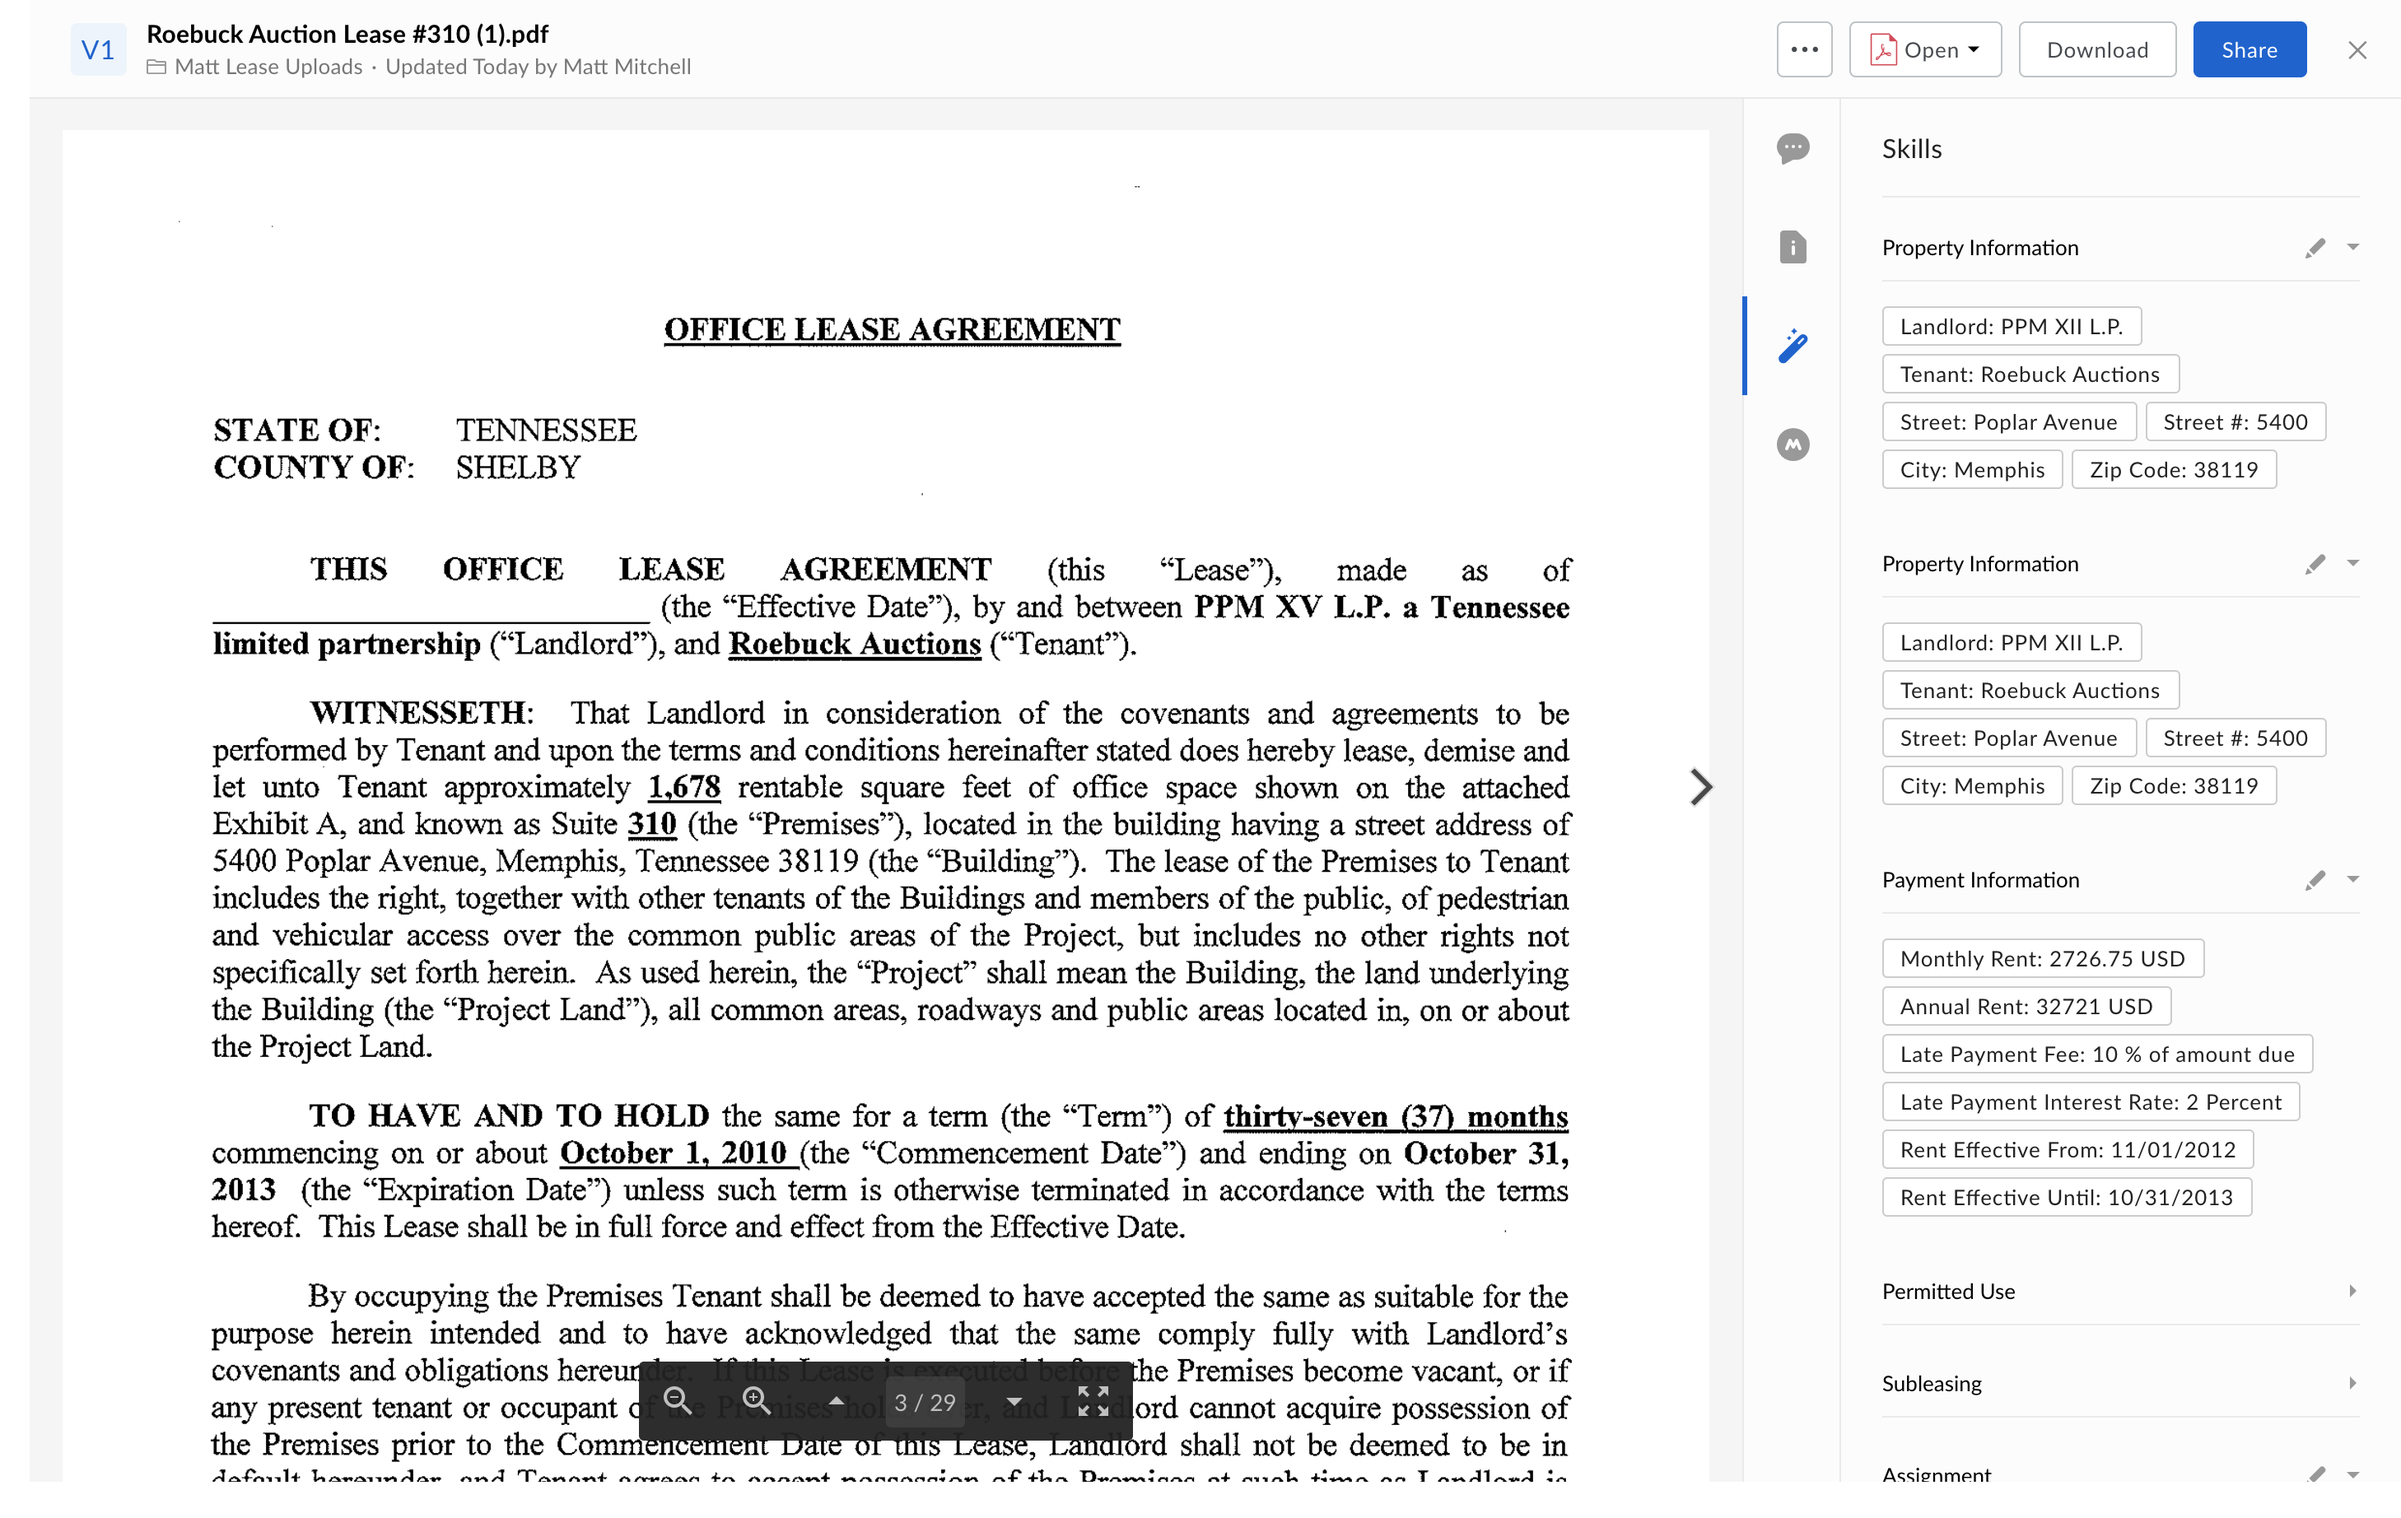
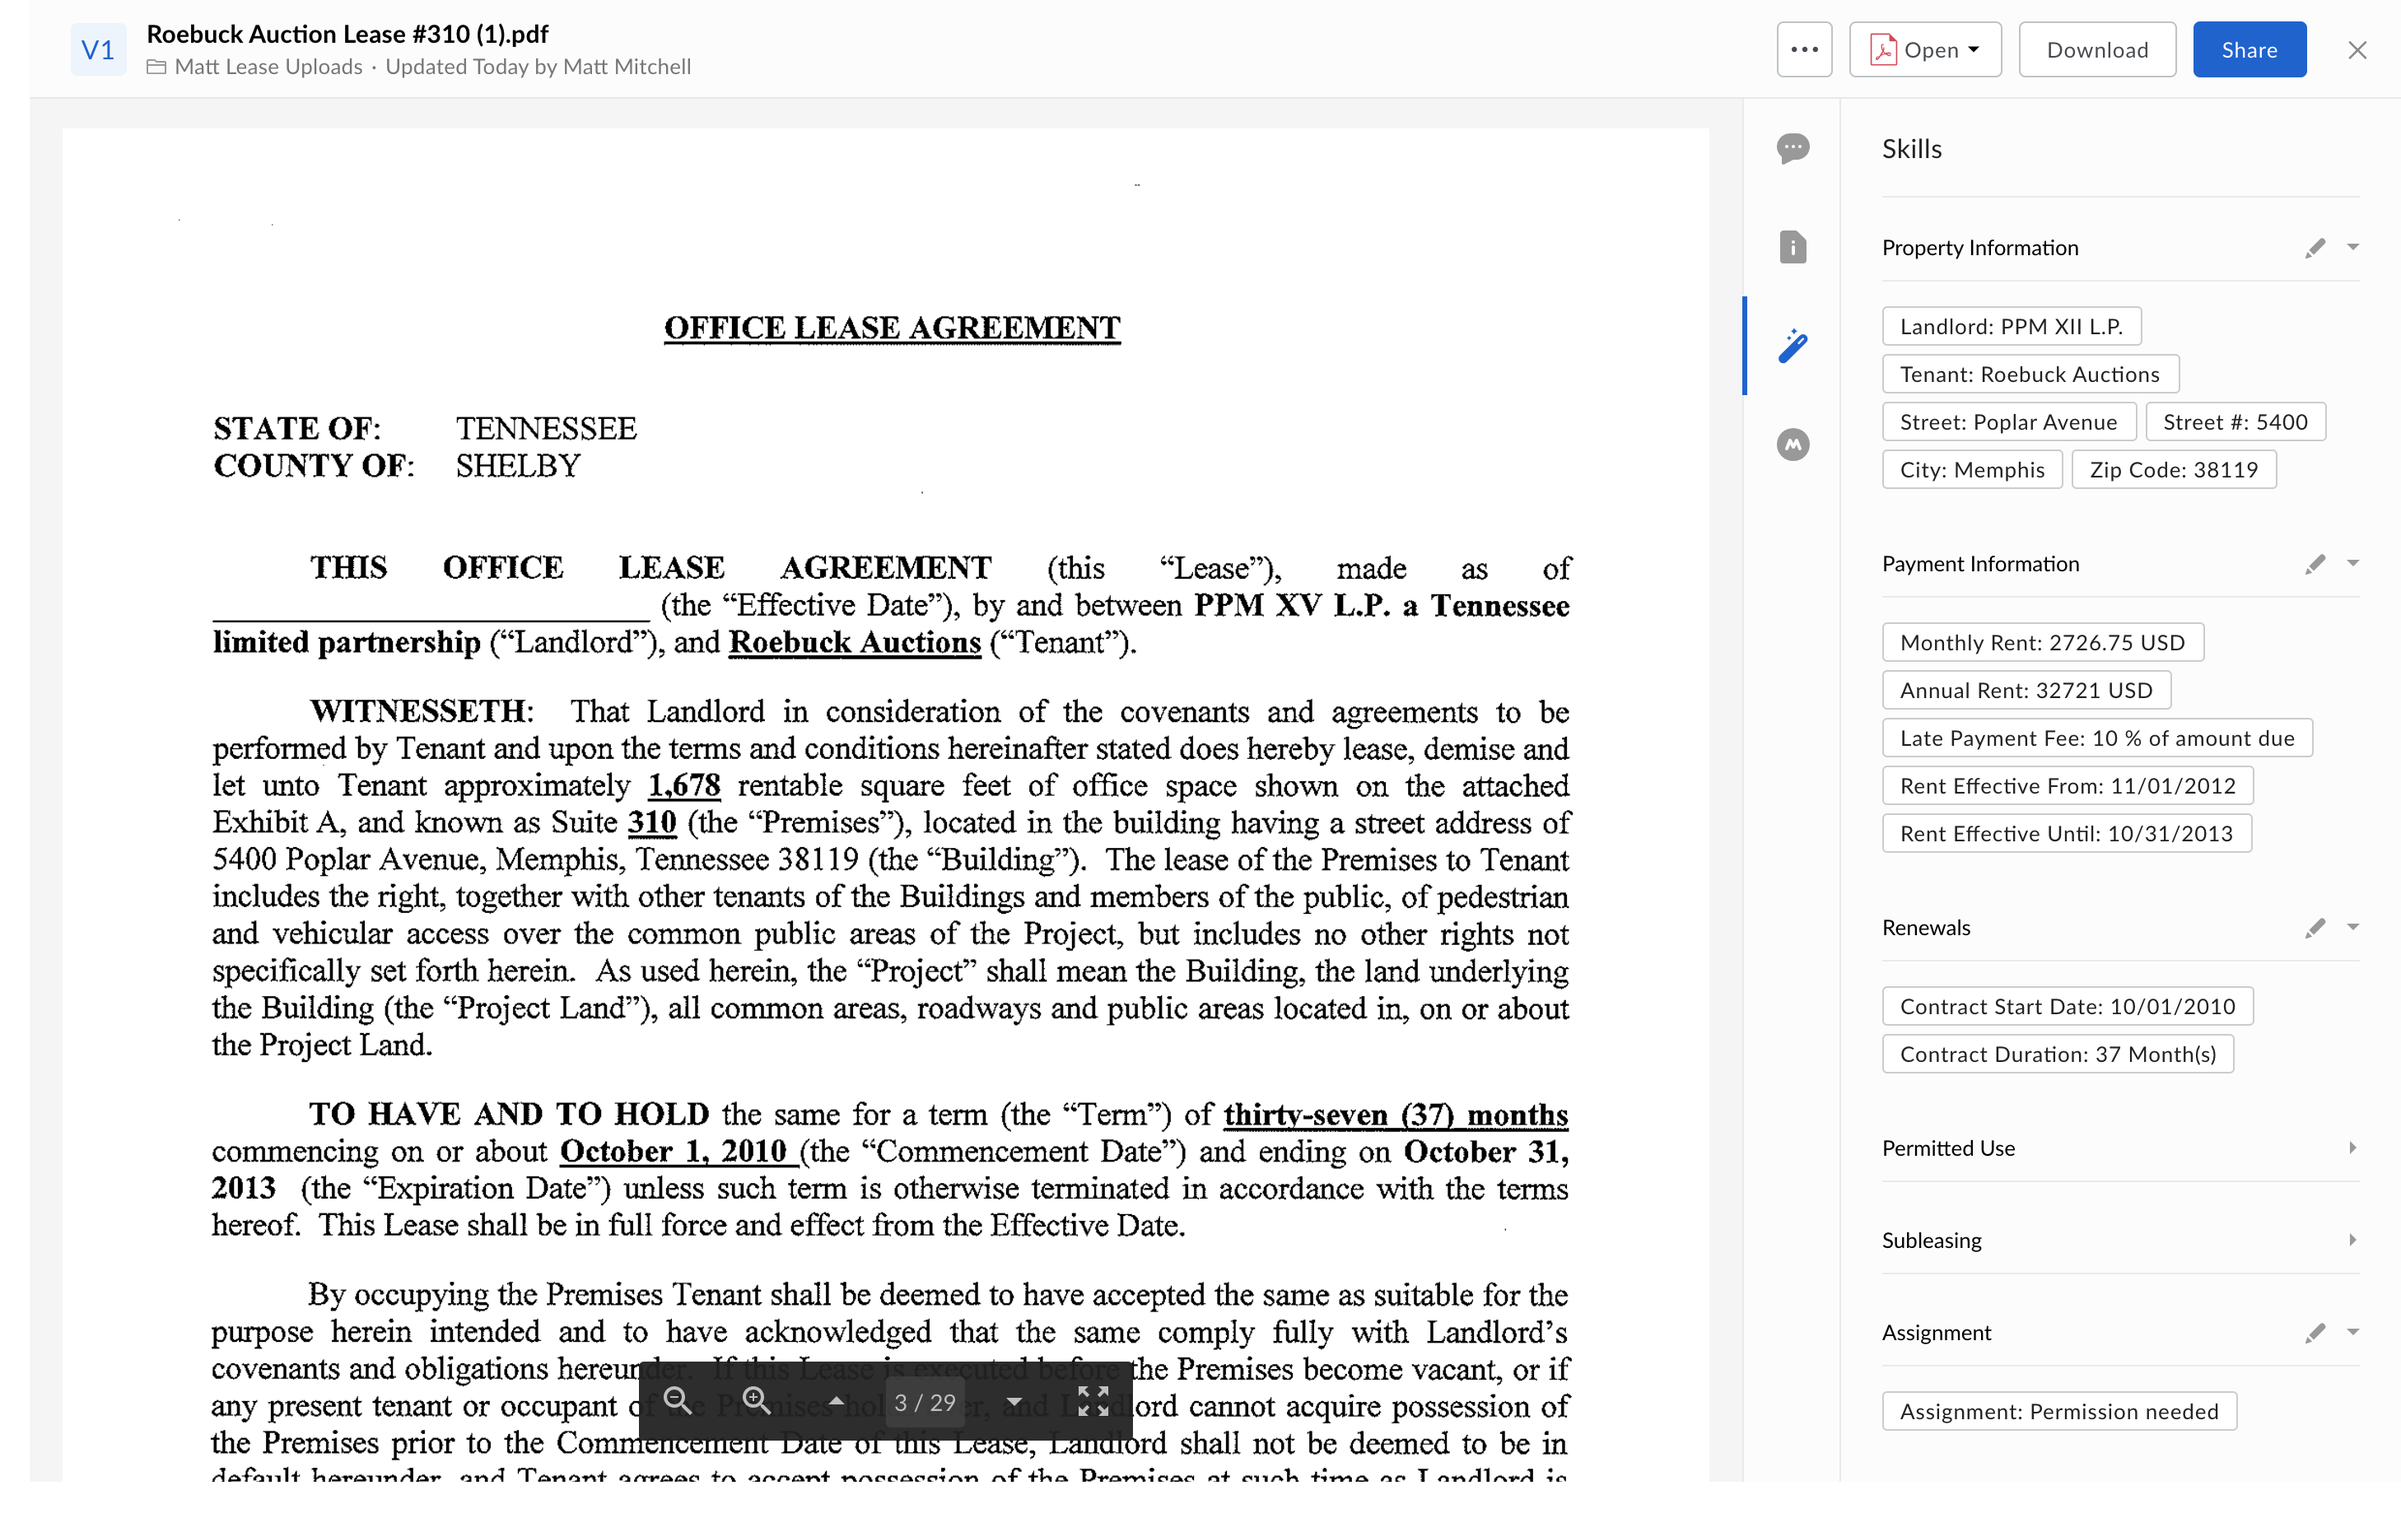
removed duplicate cards

diff --git a/leverton-lease-extraction/index.js b/leverton-lease-extraction/index.js
@@ -39,7 +39,7 @@ async function processSkill(event, context) {
     await skillsWriter.saveDataCards(cards);
     console.log("Successfully attached skill metadata to Box file");
   } catch(error) {
-    console.log("Error " + error);
+    console.log(error);
     // await skillsWriter.saveErrorCard(SkillsErrorEnum.UNKNOWN);
   }
 }
@@ -104,19 +104,6 @@ function populateMetadataCards(levertonMetadata) {
 
   tempCard = formatCardTopics(
     {
-      RenterName: "Landlord",
-      RenteeName: "Tenant",
-      RentalStreet: "Street",
-      RentalStreetNumber: "Street #",
-      RentalCity: "City",
-      RentalZip: "Zip Code",
-      RentalCountry: "Country"
-    },
-    levertonMetadata)
-  cards.push(skillsWriter.createTopicsCard(tempCard, null, "Property Information"));
-
-  tempCard = formatCardTopics(
-    {
       UDMBaseRentMonthlyAmount: "Monthly Rent",
       UDMBaseRentAmount: "Annual Rent",
       UDMBaseRentAnnualAmount: "Annual Rent",
@@ -130,6 +117,19 @@ function populateMetadataCards(levertonMetadata) {
     },
     levertonMetadata)
   cards.push(skillsWriter.createTopicsCard(tempCard, null, "Payment Information"));
+
+  tempCard = formatCardTopics(
+    {
+      RenewalBeneficiary: "Renewal Beneficiary",
+      RenewalDuration: "Renewal Duration",
+      RenewalTimes: "Number of Renewals",
+      ContractStart: "Contract Start Date",
+      ContractDurationDate: "Contract Duration Date",
+      ContractDurationMain: "Contract Duration"
+
+    },
+    levertonMetadata)
+  cards.push(skillsWriter.createTopicsCard(tempCard, null, "Renewals"));  
 
   tempCard = formatCardTopics(
     { UDMPurposeUsageUS: "Permitted Use"},
